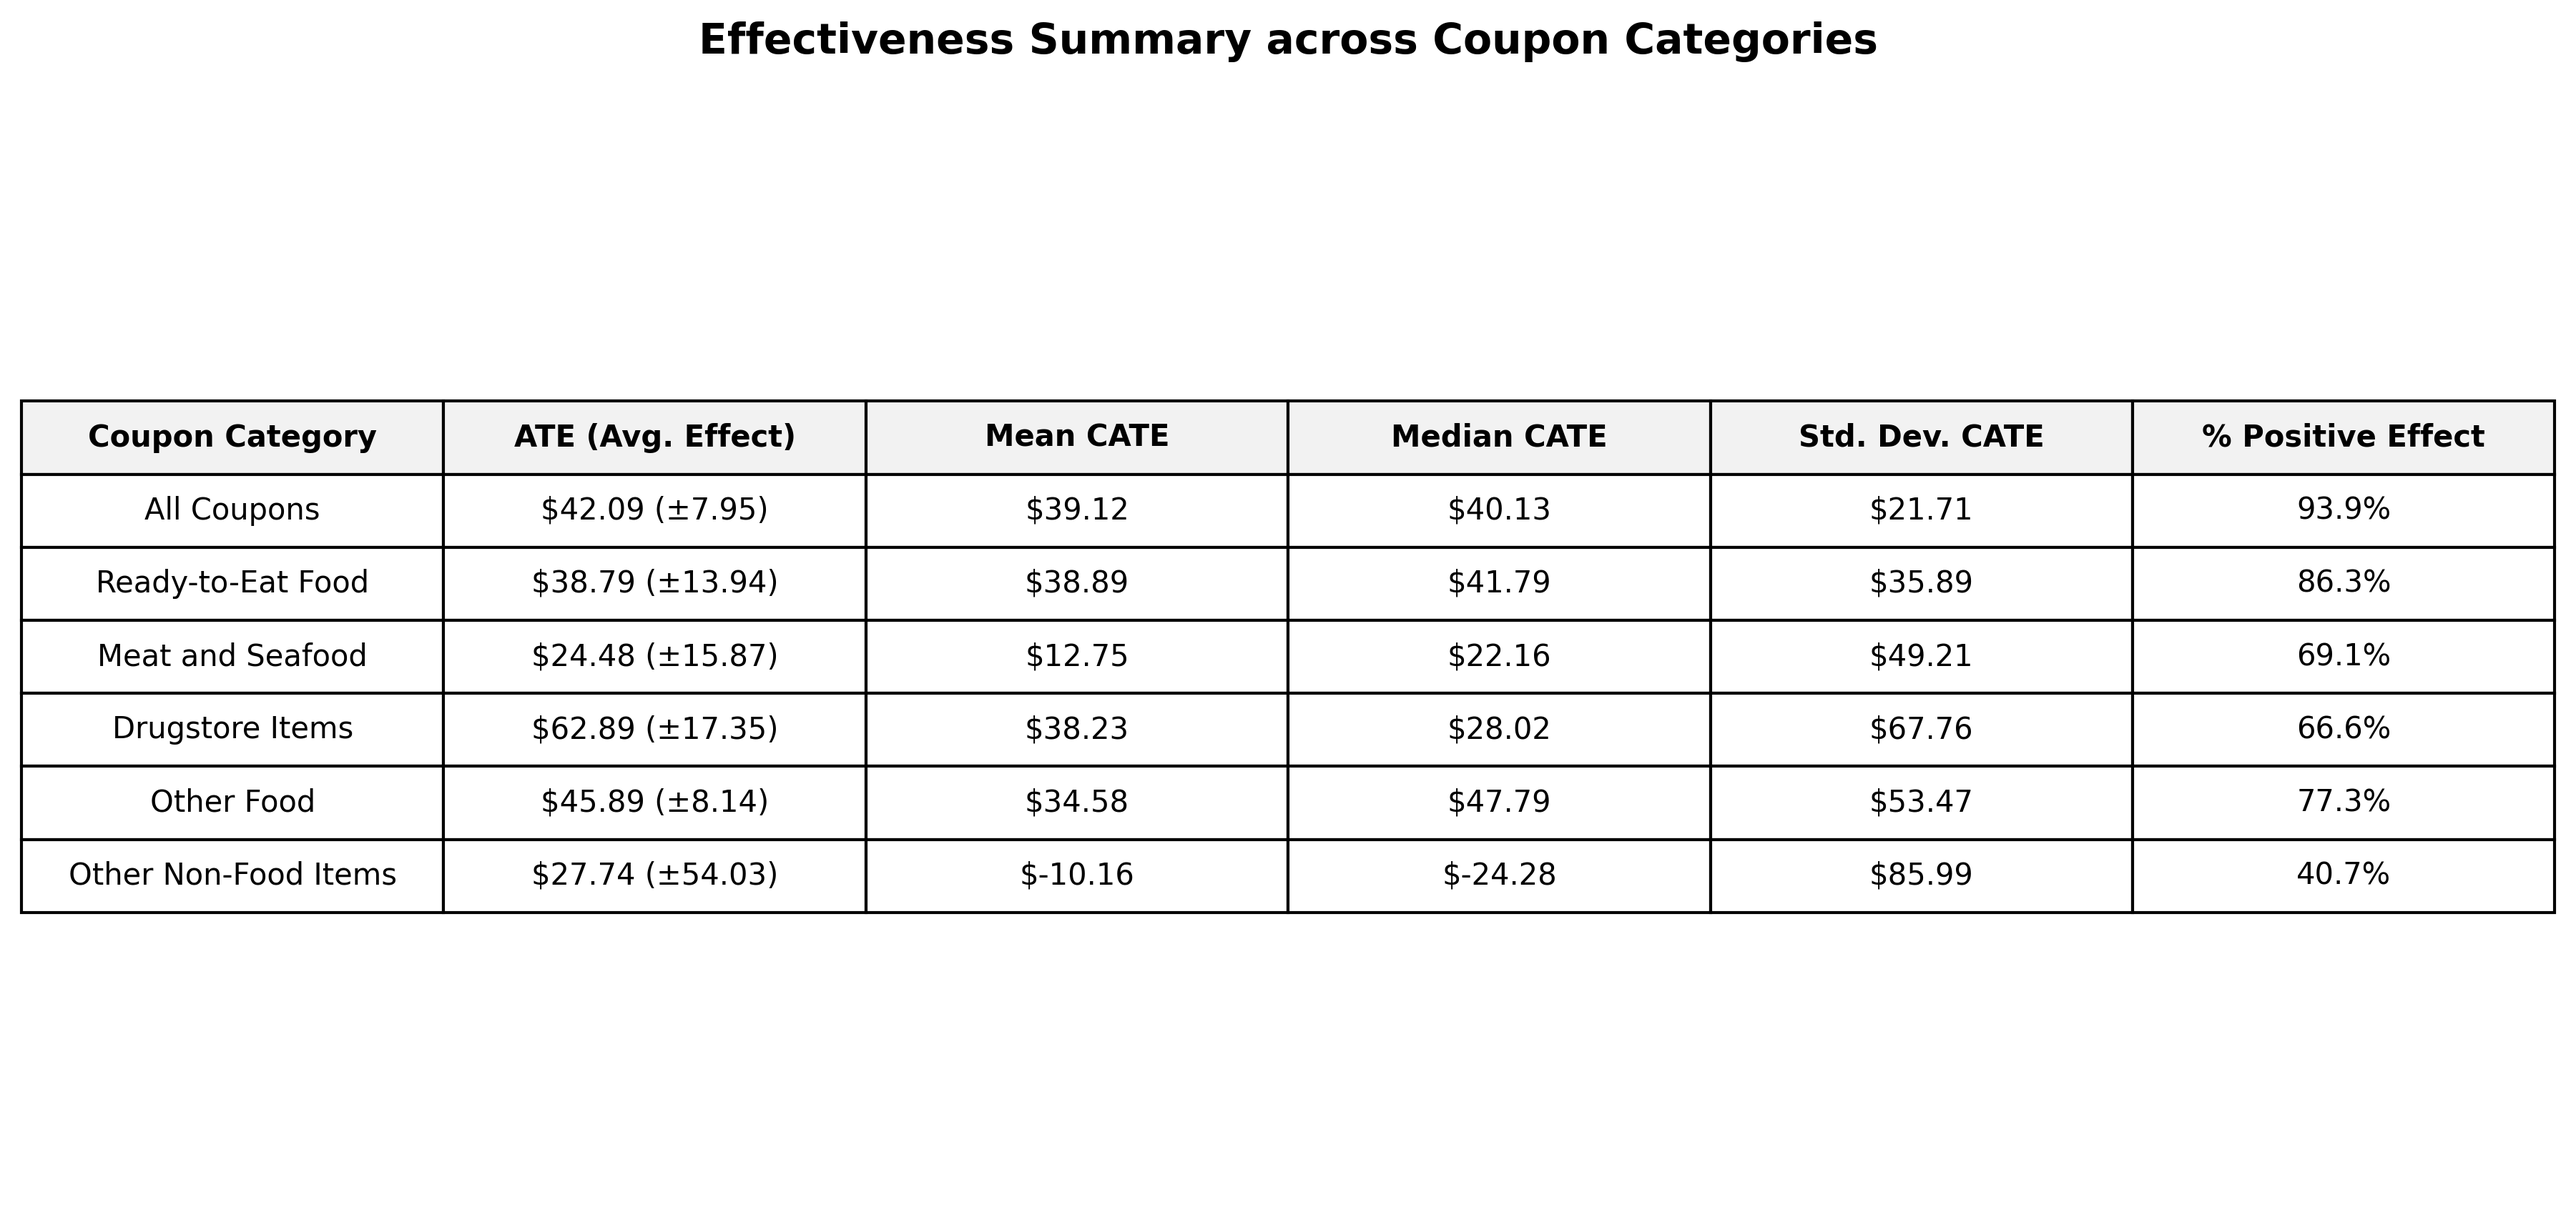
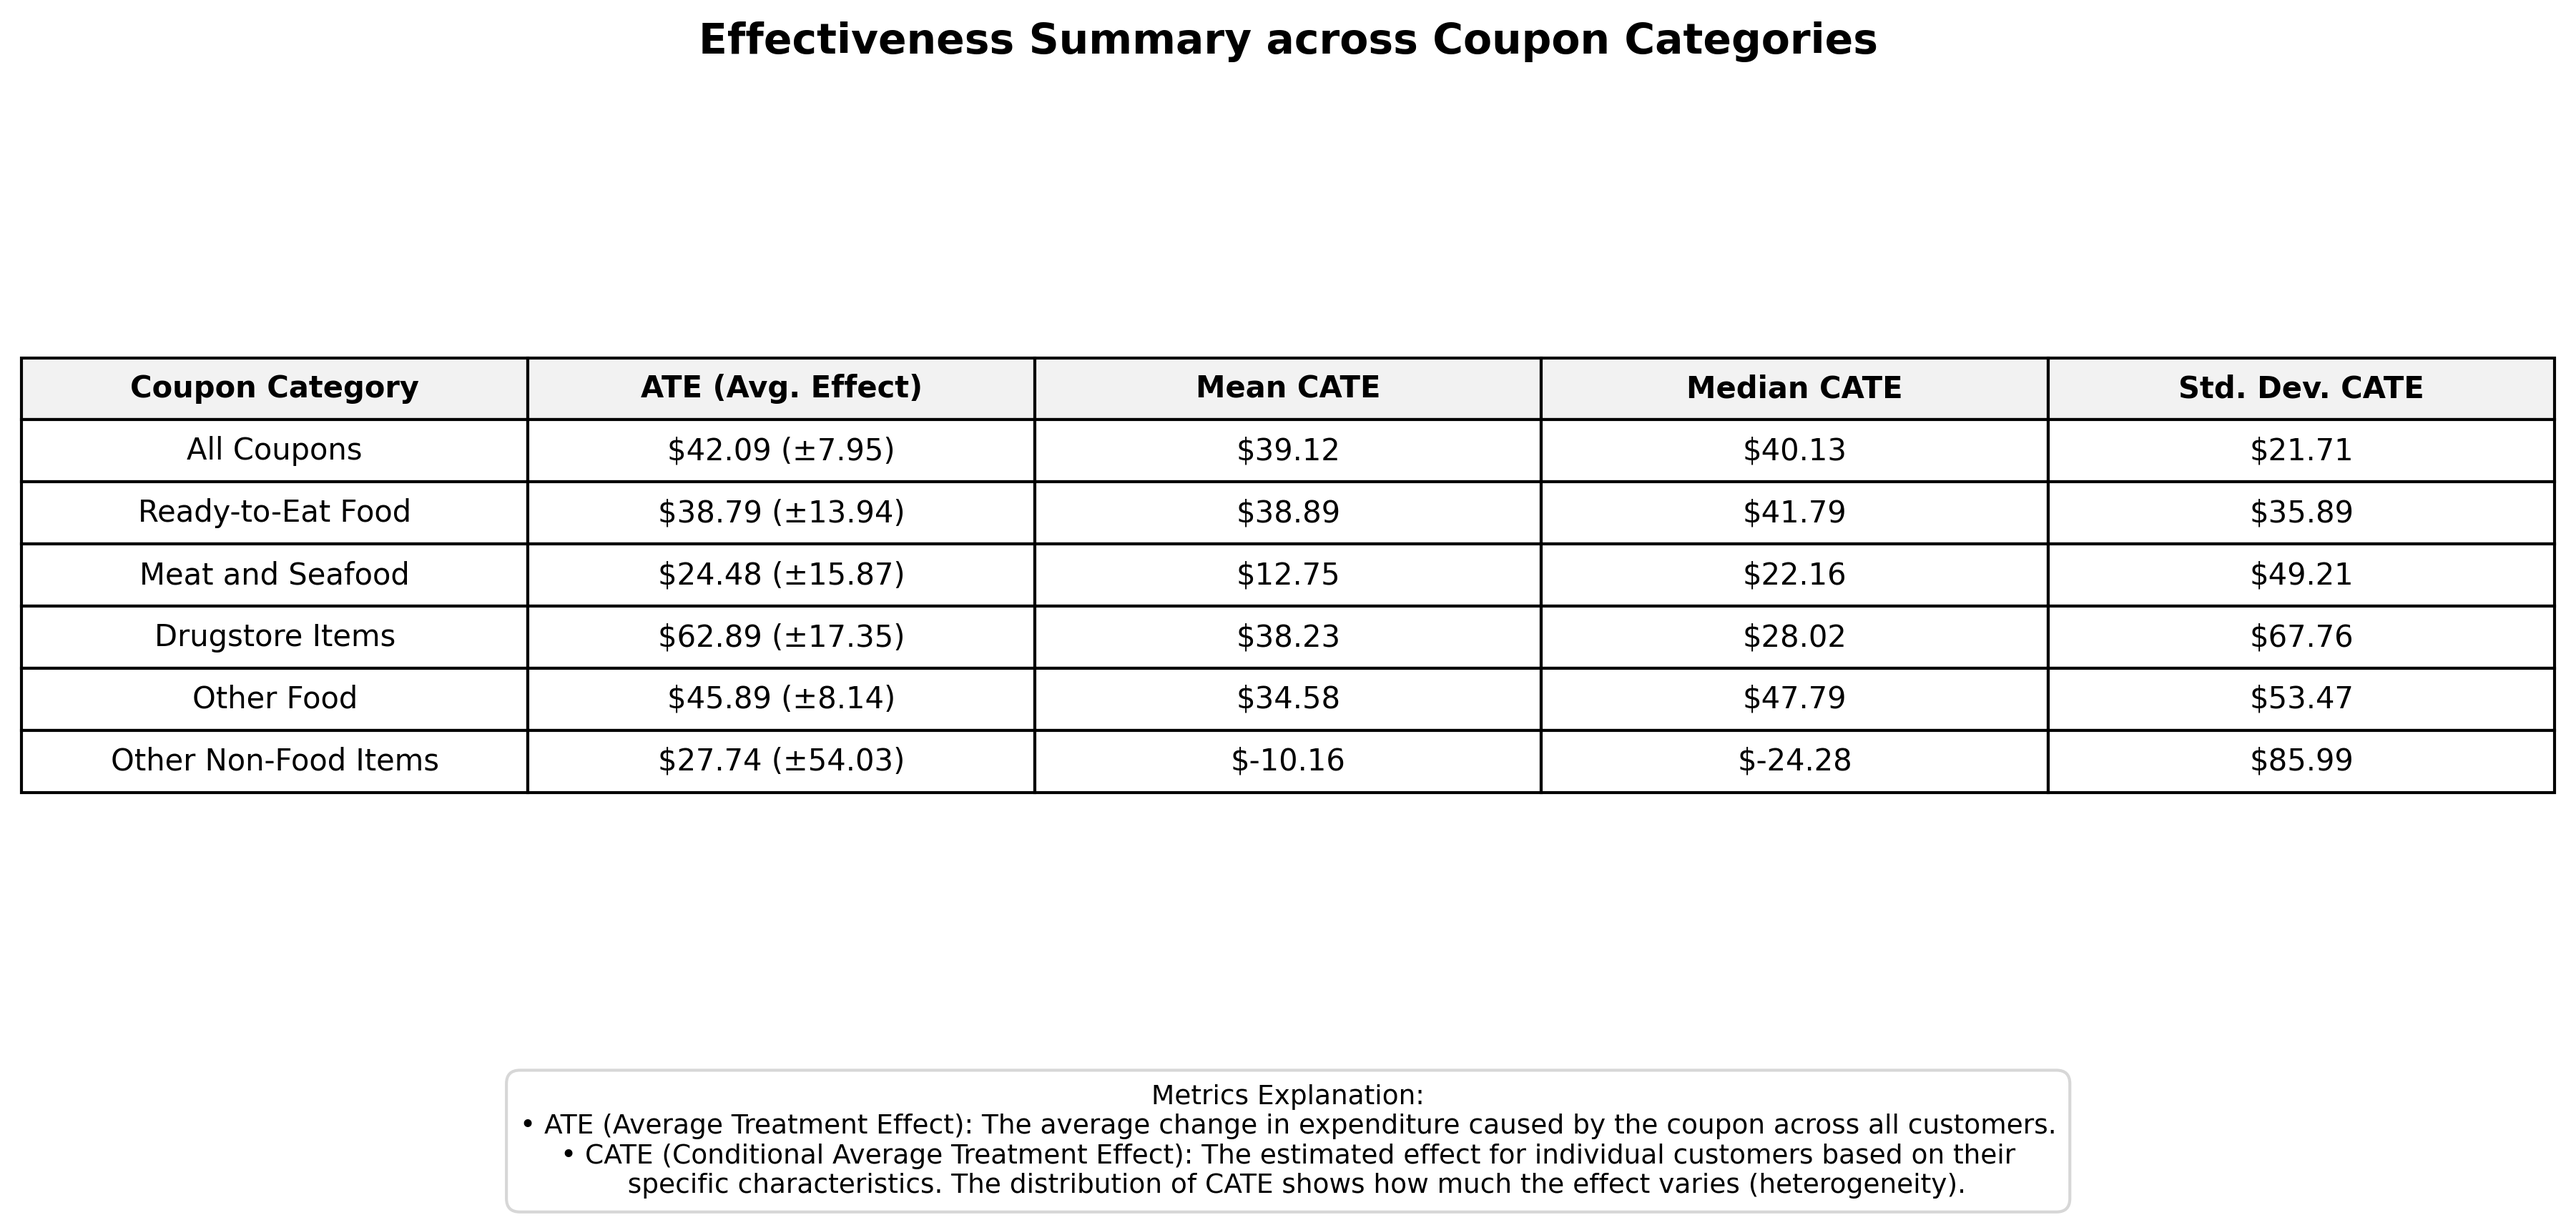
Changed summary table

diff --git a/visualize_results.py b/visualize_results.py
@@ -62,8 +62,7 @@ def plot_summary_table():
             "ATE (Avg. Effect)": f"${ate_val:.2f} (±{1.96*ate_se:.2f})",
             "Mean CATE": f"${cates.mean():.2f}",
             "Median CATE": f"${cates.median():.2f}",
-            "Std. Dev. CATE": f"${cates.std():.2f}",
-            "% Positive Effect": f"{(cates > 0).mean()*100:.1f}%"
+            "Std. Dev. CATE": f"${cates.std():.2f}"
         })
 
     df_table = pd.DataFrame(summary_data)
@@ -90,6 +89,16 @@ def plot_summary_table():
     for (row, col), cell in table.get_celld().items():
         if row == 0:
             cell.set_text_props(fontweight='bold')
+
+    # Add explanation box
+    explanation = (
+        "Metrics Explanation:\n"
+        "• ATE (Average Treatment Effect): The average change in expenditure caused by the coupon across all customers.\n"
+        "• CATE (Conditional Average Treatment Effect): The estimated effect for individual customers based on their\n"
+        "  specific characteristics. The distribution of CATE shows how much the effect varies (heterogeneity)."
+    )
+    ax.text(0.5, -0.05, explanation, fontsize=9, ha='center', va='top', transform=ax.transAxes,
+            bbox=dict(boxstyle="round,pad=0.5", facecolor="white", edgecolor="lightgray", alpha=0.9))
 
     plt.title("Effectiveness Summary across Coupon Categories", fontsize=14, pad=20, fontweight="bold")
     plt.tight_layout()
